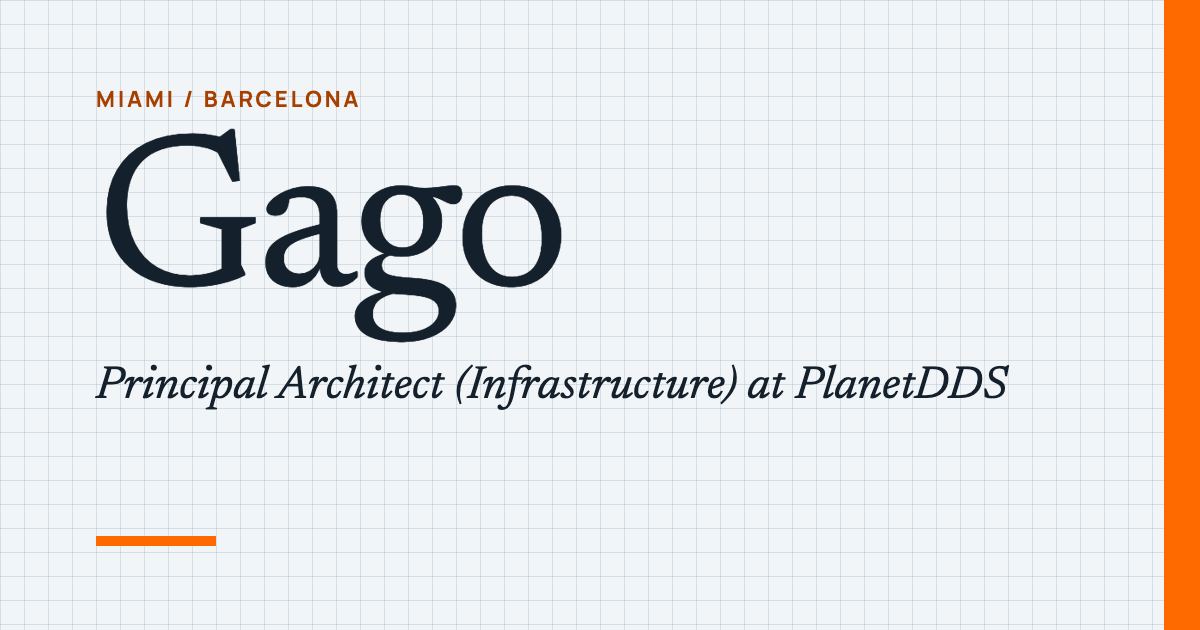
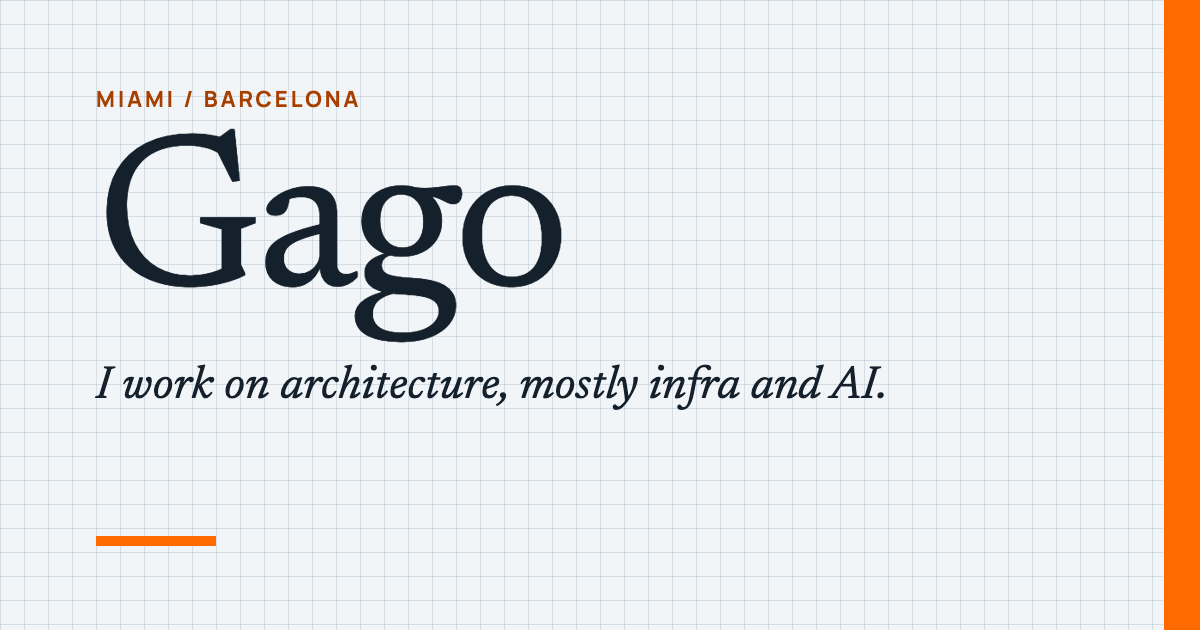
Lead with what I do, not the title (#2)

Changed region(s): [[0.0925, 0.573, 0.8633, 0.6635]]

diff --git a/index.html b/index.html
@@ -3,17 +3,17 @@
 <head>
 <meta charset="utf-8">
 <meta name="viewport" content="width=device-width, initial-scale=1">
-<title>Gago — Principal Architect (Infrastructure)</title>
-<meta name="description" content="Gago, Principal Architect (Infrastructure) at PlanetDDS. Infrastructure architecture, AI-agent developer tooling, open-source maintenance, and software engineering, devex and tooling.">
+<title>Gago — architecture, infra and AI</title>
+<meta name="description" content="Gago works on architecture, mostly infrastructure and AI: infrastructure design, developer tooling for AI agents, open-source maintenance, and software engineering in general.">
 <link rel="canonical" href="https://gagoar.github.io/">
 <meta property="og:type" content="website">
-<meta property="og:title" content="Gago — Principal Architect (Infrastructure)">
+<meta property="og:title" content="Gago — architecture, infra and AI">
 <meta property="og:description" content="Infrastructure architecture, AI-agent developer tooling, open-source maintenance, and software engineering, devex and tooling.">
 <meta property="og:url" content="https://gagoar.github.io/">
 <meta property="og:image" content="https://gagoar.github.io/assets/og.png">
 <meta property="og:image:width" content="1200">
 <meta property="og:image:height" content="630">
-<meta property="og:image:alt" content="Gago, Principal Architect (Infrastructure), on a drafting-table grid with an orange rule.">
+<meta property="og:image:alt" content="Gago: I work on architecture, mostly infra and AI. On a drafting-table grid with an orange rule.">
 <meta name="twitter:card" content="summary_large_image">
 <meta name="twitter:image" content="https://gagoar.github.io/assets/og.png">
 <link rel="preload" href="assets/fonts/newsreader-latin-400-normal.woff2" as="font" type="font/woff2" crossorigin>
@@ -24,12 +24,13 @@
 <header class="gg-head"><div class="gg-wrap">
 <p class="gg-sheetno">Miami / Barcelona</p>
 <h1>Gago</h1>
-<p class="gg-role">Principal Architect (Infrastructure) at PlanetDDS</p>
+<p class="gg-role">I work on architecture, mostly infra and AI.</p>
 <span class="gg-rule" aria-hidden="true"></span>
-<p class="gg-focus">I design infrastructure architecture, build developer tooling for AI agents, maintain open-source projects, and work on software engineering, devex and tooling in general.</p>
+<p class="gg-focus">That means designing infrastructure, building developer tooling for AI agents, and maintaining open-source projects. I'm also into software engineering in general, devex and tooling.</p>
 <ul class="gg-meta">
 <li><b>GitHub</b> <a href="https://github.com/gagoar">github.com/gagoar</a></li>
 <li><b>Email</b> xeroice (at) gmail (dot) com</li>
+<li><b>Day job</b> Principal Architect (Infrastructure), PlanetDDS</li>
 </ul>
 </div></header>
 <main id="main"><div class="gg-wrap">

diff --git a/assets/og.html b/assets/og.html
@@ -10,4 +10,4 @@ h1{font:400 220px/0.9 Newsreader,serif;margin:0;letter-spacing:-.02em}
 .r{font:italic 400 46px/1.2 Newsreader,serif;margin:28px 0 0}
 .bar{position:absolute;left:96px;bottom:84px;width:120px;height:10px;background:#ff6a00}
 .bar2{position:absolute;right:0;top:0;bottom:0;width:36px;background:#ff6a00}
-</style></head><body><p class="k">Miami / Barcelona</p><h1>Gago</h1><p class="r">Principal Architect (Infrastructure) at PlanetDDS</p><div class="bar"></div><div class="bar2"></div></body></html>
+</style></head><body><p class="k">Miami / Barcelona</p><h1>Gago</h1><p class="r">I work on architecture, mostly infra and AI.</p><div class="bar"></div><div class="bar2"></div></body></html>
